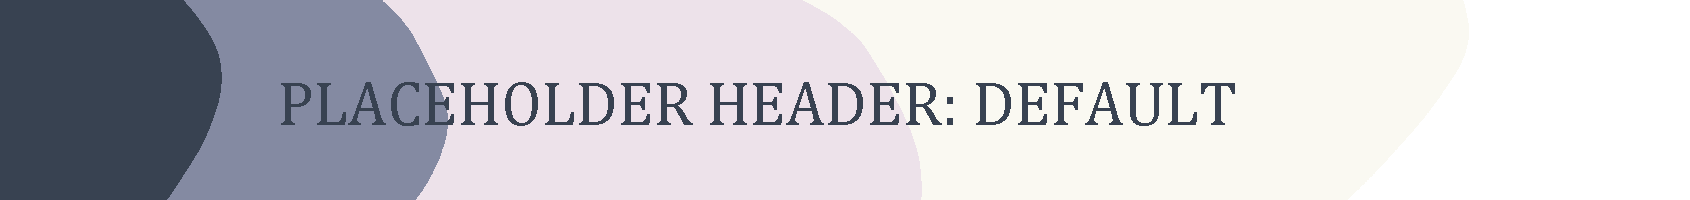
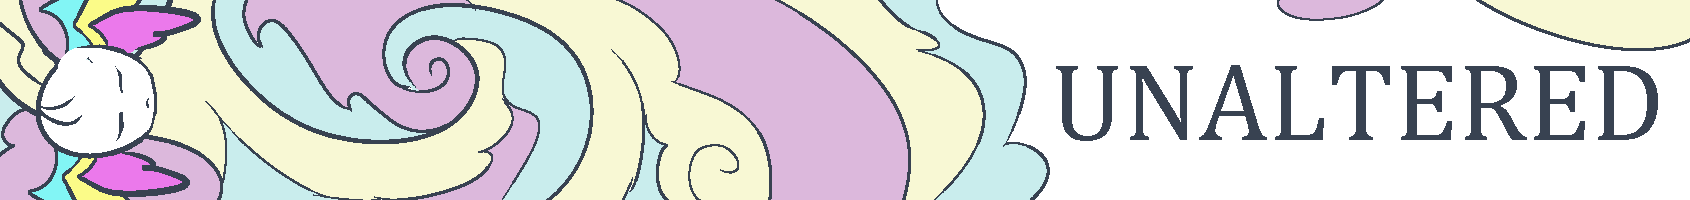
samael file, text update, some images

diff --git a/elements.html b/elements.html
@@ -1,0 +1,92 @@
+<!doctype html>
+<html class="no-js" lang="">
+
+<head>
+  <meta charset="utf-8">
+  <meta name="viewport" content="width=device-width, initial-scale=1">
+  <title>UNALTERED Wiki</title>
+  <link rel="stylesheet" href="css/new.css">
+  <meta name="description" content="">
+  <link rel="icon" href="images/favicon.ico" sizes="any">
+  <script src="scripts/custom.js" type="text/javascript" defer></script>
+</head>
+
+<body>
+
+<header-component></header-component>
+<header id="header" style="background-image: url('images/defaultheader.png')"></header>
+<main>
+        <div id="container"><main>
+        <h1>Elements</h1>
+        <div-stub></div-stub>
+<div id="toc"></div>
+            
+<div id="contents">
+    <div style="display: none;"><h2>Elements</h2></div> 
+    <p>Lorem ipsum dolor sit amet, consectetur adipiscing elit, sed do eiusmod tempor incididunt ut labore et dolore magna aliqua. Ut enim ad minim veniam, quis nostrud exercitation ullamco laboris nisi ut aliquip ex ea commodo consequat. Duis aute irure dolor in reprehenderit in voluptate velit esse cillum dolore eu fugiat nulla pariatur. Excepteur sint occaecat cupidatat non proident, sunt in culpa qui officia deserunt mollit anim id est laborum.</p>
+    <h3>Order</h3>
+    <p>Lorem ipsum dolor sit amet, consectetur adipiscing elit, sed do eiusmod tempor incididunt ut labore et dolore magna aliqua. Ut enim ad minim veniam, quis nostrud exercitation ullamco laboris nisi ut aliquip ex ea commodo consequat. Duis aute irure dolor in reprehenderit in voluptate velit esse cillum dolore eu fugiat nulla pariatur. Excepteur sint occaecat cupidatat non proident, sunt in culpa qui officia deserunt mollit anim id est laborum.</p>
+    <h3>Mind</h3>
+    <p>Lorem ipsum dolor sit amet, consectetur adipiscing elit, sed do eiusmod tempor incididunt ut labore et dolore magna aliqua. Ut enim ad minim veniam, quis nostrud exercitation ullamco laboris nisi ut aliquip ex ea commodo consequat. Duis aute irure dolor in reprehenderit in voluptate velit esse cillum dolore eu fugiat nulla pariatur. Excepteur sint occaecat cupidatat non proident, sunt in culpa qui officia deserunt mollit anim id est laborum.</p>
+    <h3>Space</h3>
+    <p>Lorem ipsum dolor sit amet, consectetur adipiscing elit, sed do eiusmod tempor incididunt ut labore et dolore magna aliqua. Ut enim ad minim veniam, quis nostrud exercitation ullamco laboris nisi ut aliquip ex ea commodo consequat. Duis aute irure dolor in reprehenderit in voluptate velit esse cillum dolore eu fugiat nulla pariatur. Excepteur sint occaecat cupidatat non proident, sunt in culpa qui officia deserunt mollit anim id est laborum.</p>
+    <h3>Time</h3>
+    <p id = "Time">Lorem ipsum dolor sit amet, consectetur adipiscing elit, sed do eiusmod tempor incididunt ut labore et dolore magna aliqua. Ut enim ad minim veniam, quis nostrud exercitation ullamco laboris nisi ut aliquip ex ea commodo consequat. Duis aute irure dolor in reprehenderit in voluptate velit esse cillum dolore eu fugiat nulla pariatur. Excepteur sint occaecat cupidatat non proident, sunt in culpa qui officia deserunt mollit anim id est laborum.</p>
+    <h3>Chaos</h3>
+    <div-chaos></div-chaos>
+    <p>Lorem ipsum dolor sit amet, consectetur adipiscing elit, sed do eiusmod tempor incididunt ut labore et dolore magna aliqua. Ut enim ad minim veniam, quis nostrud exercitation ullamco laboris nisi ut aliquip ex ea commodo consequat. Duis aute irure dolor in reprehenderit in voluptate velit esse cillum dolore eu fugiat nulla pariatur. Excepteur sint occaecat cupidatat non proident, sunt in culpa qui officia deserunt mollit anim id est laborum.</p>
+    <h2>Materialisation</h2>
+    <p>Lorem ipsum dolor sit amet, consectetur adipiscing elit, sed do eiusmod tempor incididunt ut labore et dolore magna aliqua. Ut enim ad minim veniam, quis nostrud exercitation ullamco laboris nisi ut aliquip ex ea commodo consequat. Duis aute irure dolor in reprehenderit in voluptate velit esse cillum dolore eu fugiat nulla pariatur. Excepteur sint occaecat cupidatat non proident, sunt in culpa qui officia deserunt mollit anim id est laborum.</p>
+    <h3>Impact</h3>
+    <p>Lorem ipsum dolor sit amet, consectetur adipiscing elit, sed do eiusmod tempor incididunt ut labore et dolore magna aliqua. Ut enim ad minim veniam, quis nostrud exercitation ullamco laboris nisi ut aliquip ex ea commodo consequat. Duis aute irure dolor in reprehenderit in voluptate velit esse cillum dolore eu fugiat nulla pariatur. Excepteur sint occaecat cupidatat non proident, sunt in culpa qui officia deserunt mollit anim id est laborum.</p>
+
+            </div>
+                </main>
+                
+            
+        </div>
+</main>
+<footer-js></footer-js>
+</body>
+
+</html>
+
+
+<!-- Don't touch this, it makes the table of contents work, as per: https://stackoverflow.com/questions/187619/is-there-a-javascript-solution-to-generating-a-table-of-contents-for-a-page </-->
+<script>
+window.onload = function () {
+    var toc = "";
+    var level = 0;
+
+    document.getElementById("contents").innerHTML =
+        document.getElementById("contents").innerHTML.replace(
+            /<h([\d])>([^<]+)<\/h([\d])>/gi,
+            function (str, openLevel, titleText, closeLevel) {
+                if (openLevel != closeLevel) {
+                    return str;
+                }
+
+                if (openLevel > level) {
+                    toc += (new Array(openLevel - level + 1)).join("<ol>");
+                } else if (openLevel < level) {
+                    toc += (new Array(level - openLevel + 1)).join("</ol>");
+                }
+
+                level = parseInt(openLevel);
+
+                var anchor = titleText.replace(/ /g, "_");
+                toc += "<li><a href=\"#" + anchor + "\">" + titleText
+                    + "</a></li>";
+
+                return "<h" + openLevel + "><a name=\"" + anchor + "\">"
+                    + titleText + "</a></h" + closeLevel + ">";
+            }
+        );
+
+    if (level) {
+        toc += (new Array(level + 1)).join("</ol>");
+    }
+
+    document.getElementById("toc").innerHTML += toc;
+};
+</script>

diff --git a/index.html b/index.html
@@ -17,21 +17,23 @@
 <header id="header" style="background-image: url('images/defaultheader.png')"></header>
 <main>
         <div id="container"><main>
-        <h1>Index Page Title Goes Here</h1>
+        <h1>UNALTERED WIKI</h1>
         <div-stub></div-stub>
-<div id="contents">     
-    <p>This is a template website that I put together as an alternative to sites/wikis like ToyHouse. It is meant to be used for storing characters and worldbuilds and such. It is not necessarily super beginner friendly, but it is about on par with how most ToyHouse template codes look, at least? If you know the basics and how to swap out image links/text, I fully believe you got this. This thing is largely bashed together from <a href="https://sadgrl.online/projects/layout-builder/">SadGrl's layout template</a> and <a href="https://www.w3schools.com/">W3 Schools tutorials</a> and some StackOverflow threads. </p> 
-    <p><a href="https://oc-hub-template.neocities.org/">This is a link for downloading a ZIP file</a> containing the files of this site. The JS (JavaScript) file is where the sidebar and its links (at the bottom of the file) are housed.</p>
-    <p>Sed ut perspiciatis unde omnis iste natus error sit voluptatem accusantium doloremque laudantium, totam rem aperiam, eaque ipsa quae ab illo inventore veritatis et quasi architecto beatae vitae dicta sunt explicabo. Nemo enim ipsam voluptatem quia voluptas sit aspernatur aut odit aut fugit, sed quia consequuntur magni dolores eos qui ratione voluptatem sequi nesciunt. Sed ut perspiciatis unde omnis iste natus error sit voluptatem accusantium doloremque laudantium, totam rem aperiam, eaque ipsa quae ab illo inventore veritatis et quasi architecto beatae vitae dicta sunt explicabo.</p>
-    <p>Neque porro quisquam est, qui dolorem ipsum quia dolor sit amet, consectetur, adipisci velit, sed quia non numquam eius modi tempora incidunt ut labore et dolore magnam aliquam quaerat voluptatem. Ut enim ad minima veniam, quis nostrum exercitationem ullam corporis suscipit laboriosam, nisi ut aliquid ex ea commodi consequatur? Quis autem vel eum iure reprehenderit qui in ea voluptate velit esse quam nihil molestiae consequatur, vel illum qui dolorem eum fugiat quo voluptas nulla pariatur?</p>
-    
+<div id="contents">
+    <h2>What is this even about?</h2>     
+    <p>This is a website I made for hosting the lore of my friend's and my OCs from the UNALTERED universe!</p>
+    <P>INSERT WORLD PREMISE HERE</P>
+    <p>The website's mostly created for myself and my friend to easier reference each others' work, but I'll be doing my best to make it as user-friendly to people who don't have the background knowledge as I can. Developed on a PC, but should work on other devices without issues.</p>
+    <h2>Cool! How do I get into it?</h2>
+    <p>There is currently no canon media you could engage with yet, but feel free to explore the website yourself! Once there is something to explore, that is</p>
+    <p>ADD LINKS TO SOME GOOD STARTING PAGES</p>
+    <p><a href="elements.html">elements</a></p>
     <h2>Featured Characters</h2>
-    <div class="gallery">
-        <a href="charactertemplate.html"><div class="galleryimage" style="background-image: url('https://www.independentmediators.co.uk/wp-content/uploads/2016/02/placeholder-image-768x576.jpg')"></div></a>
-        <a href="charactertemplate.html"><div class="galleryimage" style="background-image: url('https://www.independentmediators.co.uk/wp-content/uploads/2016/02/placeholder-image-768x576.jpg')"></div></a>
-        <a href="charactertemplate.html"><div class="galleryimage" style="background-image: url('https://www.independentmediators.co.uk/wp-content/uploads/2016/02/placeholder-image-768x576.jpg')"></div></a>
-        <a href="charactertemplate.html"><div class="galleryimage" style="background-image: url('https://www.independentmediators.co.uk/wp-content/uploads/2016/02/placeholder-image-768x576.jpg')"></div></a>
-        <a href="charactertemplate.html"><div class="galleryimage" style="background-image: url('https://www.independentmediators.co.uk/wp-content/uploads/2016/02/placeholder-image-768x576.jpg')"></div></a>
+    <div class="gallery" style="margin: 0 auto; width: fit-content;">
+        <a href="samael.html"><div class="galleryimage" style="background-image: url('https://www.independentmediators.co.uk/wp-content/uploads/2016/02/placeholder-image-768x576.jpg')"><p class="caption">Samael</p></div></a>
+        <a href="charactertemplate.html"><div class="galleryimage" style="background-image: url('https://www.independentmediators.co.uk/wp-content/uploads/2016/02/placeholder-image-768x576.jpg')"><p class="caption">Kas</p></div></a>
+        <a href="charactertemplate.html"><div class="galleryimage" style="background-image: url('https://www.independentmediators.co.uk/wp-content/uploads/2016/02/placeholder-image-768x576.jpg')"><p class="caption">SPACE</p></div></a>
+        <a href="charactertemplate.html"><div class="galleryimage" style="background-image: url('https://www.independentmediators.co.uk/wp-content/uploads/2016/02/placeholder-image-768x576.jpg')"><p class="caption">MIND</p></div></a>
             <br>
             </div>
             </div>

diff --git a/samael.html b/samael.html
@@ -17,7 +17,7 @@
 <header id="header" style="background-image: url('images/defaultheader.png')"></header>
 <main>
         <div id="container"><main>
-        <h1>Character Name or Topic Title Goes Here</h1>
+        <h1>SAMAEL</h1>
         <div-stub></div-stub>
   <div class="characterprofile">
     <div class="charactermain-image" style="background-image: url('https://www.independentmediators.co.uk/wp-content/uploads/2016/02/placeholder-image-768x576.jpg')"></div>
@@ -27,23 +27,23 @@
   </tr>
   <tr>
     <td>Pronouns</td>
-    <td>N/A</td>
+    <td>he/any</td>
   </tr>
   <tr>
     <td>Species</td>
-    <td>N/A</td>
+    <td>N/A, formerly an Angel</td>
   </tr>
   <tr>
     <td>Age</td>
-    <td>N/A</td>
+    <td>Immortal Adult</td>
   </tr>
   <tr>
     <td>Element</td>
-    <td>N/A</td>
+    <td><a href="elements.html#Time">Time</a></td>
   </tr>
   <tr>
     <td>Status</td>
-    <td>N/A</td>
+    <td>Shard</td>
   </tr>
   <tr>
     <th colspan="2"> </th>
@@ -60,9 +60,11 @@
     <h2>Personality</h2>
     <p>Lorem ipsum dolor sit amet, consectetur adipiscing elit, sed do eiusmod tempor incididunt ut labore et dolore magna aliqua. Ut enim ad minim veniam, quis nostrud exercitation ullamco laboris nisi ut aliquip ex ea commodo consequat. Duis aute irure dolor in reprehenderit in voluptate velit esse cillum dolore eu fugiat nulla pariatur. Excepteur sint occaecat cupidatat non proident, sunt in culpa qui officia deserunt mollit anim id est laborum.</p>
     <h2>Relationships</h2>
-    <h3>Character 1</h3>
+    <h3>Kas</h3>
     <p>Lorem ipsum dolor sit amet, consectetur adipiscing elit, sed do eiusmod tempor incididunt ut labore et dolore magna aliqua. Ut enim ad minim veniam, quis nostrud exercitation ullamco laboris nisi ut aliquip ex ea commodo consequat. Duis aute irure dolor in reprehenderit in voluptate velit esse cillum dolore eu fugiat nulla pariatur. Excepteur sint occaecat cupidatat non proident, sunt in culpa qui officia deserunt mollit anim id est laborum.</p>
-    <h3>Character 2</h3>
+    <h3>SPACE</h3>
+    <p>Lorem ipsum dolor sit amet, consectetur adipiscing elit, sed do eiusmod tempor incididunt ut labore et dolore magna aliqua. Ut enim ad minim veniam, quis nostrud exercitation ullamco laboris nisi ut aliquip ex ea commodo consequat. Duis aute irure dolor in reprehenderit in voluptate velit esse cillum dolore eu fugiat nulla pariatur. Excepteur sint occaecat cupidatat non proident, sunt in culpa qui officia deserunt mollit anim id est laborum.</p>
+    <h3>MIND</h3>
     <p>Lorem ipsum dolor sit amet, consectetur adipiscing elit, sed do eiusmod tempor incididunt ut labore et dolore magna aliqua. Ut enim ad minim veniam, quis nostrud exercitation ullamco laboris nisi ut aliquip ex ea commodo consequat. Duis aute irure dolor in reprehenderit in voluptate velit esse cillum dolore eu fugiat nulla pariatur. Excepteur sint occaecat cupidatat non proident, sunt in culpa qui officia deserunt mollit anim id est laborum.</p>
     <h2>Biography</h2>
     <h3>Time period 1</h3>

diff --git a/scripts/custom.js b/scripts/custom.js
@@ -34,7 +34,7 @@ class Footer extends HTMLElement {
   connectedCallback(){
     console.log("added footer");
     this.innerHTML = `
-      <footer><strong>Last Updated 12.04.2025</strong></footer>
+      <footer><strong>Website last updated 12.04.2025</strong></footer>
       `;
   }
 }
@@ -46,7 +46,7 @@ class Stub extends HTMLElement{
   }
 
   connectedCallback(){
-    this.innerHTML = `<div class="stub"><div><img src="https://www.independentmediators.co.uk/wp-content/uploads/2016/02/placeholder-image-768x576.jpg" alt=""></div><div><p><strong>This page is a stub.</strong></p><p>I'm doing my best to fill it in as quick as I can, please bear with me.</p></div></div>`
+    this.innerHTML = `<div class="stub"><div><img src="images/stub.png" alt=""></div><div><p><strong>This page/section is a stub.</strong></p><p>I'm doing my best to fill it in as quick as I can, please bear with me.</p></div></div>`
   }
 }
 customElements.define("div-stub", Stub)
@@ -57,7 +57,7 @@ class ChaosStub extends HTMLElement{
   }
 
   connectedCallback(){
-    this.innerHTML = `<div class="stub"><div><img src="https://www.independentmediators.co.uk/wp-content/uploads/2016/02/placeholder-image-768x576.jpg" alt=""></div><div><p><strong>This page is under the control of Chaos.</strong></p><p>This part of lore belongs to my friend and is more likely to be outdated or miss details.</p></div></div>`
+    this.innerHTML = `<div class="stub"><div><img src="images/chaos.png" alt=""></div><div><p><strong>This page/section is under the control of Chaos.</strong></p><p>This part of lore belongs to my friend and is more likely to be outdated or miss details.</p></div></div>`
   }
 }
 customElements.define("div-chaos", ChaosStub)

diff --git a/css/new.css b/css/new.css
@@ -74,6 +74,10 @@ h1 {
 margin-top: 0;
 }
 
+h3 {
+  font-size: 25px;
+}
+
 h4 {
   text-align: left;
   font-size: 19px;
@@ -91,16 +95,21 @@ h4 {
   max-height: fit-content;
   flex-wrap: wrap;
   display: flex;
-  padding: 25px;
+  padding: 20px;
   max-width: 500px
 }
 .stub img {
-  margin: 0 30px 0 0;
+  margin: 10px 30px 0 0;
   height: 100px;
   width: 100px;
 }
 .stub p {
   max-width: 300px;
+}
+
+p.caption {
+  padding-top: 65%;
+  font-size: 25px;
 }
 
 .imagehere {
@@ -135,6 +144,7 @@ h4 {
   margin: 10px;
   border: 2px outset #848AA2;
   border-radius: 0 10px 0 10px;
+  text-align: center;
 }
 
 h1,
@@ -230,6 +240,7 @@ border-radius: 0 10px 0 10px;
 td:nth-child(odd) {
 font-weight: 600;
   text-align: right;
+width: 35%;
 }
 
 tr:nth-child(odd) {

diff --git a/miscellaneous.html b/miscellaneous.html
@@ -28,7 +28,8 @@
     <h2>Credits</h2>
     <ul>
         <li>Template by <a href="https://44x50.neocities.org/">44x50</a></li>
-        <li>Inspired by <a href="https://numbersstory.com/">Numbers Story</a></li>
+        <li>Layout inspired by <a href="https://numbersstory.com/">Numbers Story</a> and Fandom wikis</li>
+        <li>The link to my friend might be here one day</li>
     </ul>
     <h2>Buttons and stuff</h2>
     <h2>Statistics</h2>

diff --git a/css/wikitemplate.css b/css/wikitemplate.css
@@ -57,6 +57,10 @@ h1 {
 margin-top: 0;
 }
 
+h3 {
+  font-size: 25px;
+}
+
 h4 {
   text-align: left;
   font-size: 19px;

diff --git a/readme.md b/readme.md
@@ -3,6 +3,6 @@ Co-owned with my friend! Don't think i have any links i can share but he's respo
 The website is WIP! most links are deadlinks, I am working on getting everything in Order [haha get it] :3
 
 ### Website is available [here](https://dianacraftgaming.github.io/unaltered-lore/)
-[Neocities redirect](dianacraft.neocities.org) || [Nekoweb redirect](dianacraft.nekoweb.org)
+[Neocities redirect](https://dianacraft.neocities.org) || [Nekoweb redirect](https://dianacraft.nekoweb.org)
 
 Last updated 12.04.2025
